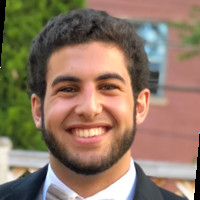
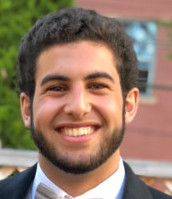
added self-photo in bio

diff --git a/index.html b/index.html
@@ -20,9 +20,8 @@
       <h1>Hi! I'm Zaddeen Benaissa, welcome!</h1>
     </div>
   </div>
-  <div class = "welcome_text">
-    <p>Here are a few of the projects I've worked on at school and on my own.
-      Feel free to click the titles to visit the projects on GitHub and learn more! </p>
+  <div class = "project_intro">
+    <h2>---  Check out the projects I've worked on  ---</h2>
   </div>
   <div class="projects" id="projects">
     <div class="project_and_image">
@@ -54,19 +53,24 @@
     </div>
   </div>
   <div id="about">
-    <h1>Personal Info</h1>
-      <p> I've always loved problem solving, and I found
-        that programming was the perfect way to blend my creativity with something
-        that challenged me. I've delved into several areas of CS through my classwork at Northwestern,
-        including Front-End Design, Machine Learning, and Game Design. Outside of class
-        I've enjoyed experimenting with APIs, especially those that have data
-        about some of my hobbies (including playing cards, the NBA, and the
-        sci-fi TV show Rick and Morty).</p>
-    <h2> Programming Languages </h2>
+    <h2>---  Here's some background on me  ---</h2>
+    <div class="bio">
+      <div class="personal_info">
+          <p> I've always loved problem solving, and I found
+            that programming was the perfect way to blend my creativity with something
+            that challenged me. I've delved into several areas of CS through my classwork at Northwestern,
+            including Front-End Design, Machine Learning, and Game Design. Outside of class
+            I've enjoyed experimenting with APIs, especially those that have data
+            about some of my hobbies (including playing cards, the NBA, and the
+            sci-fi TV show Rick and Morty).</p>
+      </div>
+      <img class = "bio_image" id="self_photo" src="assets/self-photo.jpeg"></img>
+    </div>
+    <h2>These are the languages I'm familiar with</h2>
       <p>Python, HTML, CSS, Javascript, C, C++, C#, MATLAB, AMPL</p>
   </div>
   <div id="contact">
-    <h1>Contact Info</h1>
+    <h1>---  I'd love to get in touch with you  ---</h1>
       <p> Thanks for stopping by! If you have any questions or just want to chat,
         I'm very responsive to an email at zaddeen@u.northwestern.edu. Also, feel free
         to check out my LinkedIn and GitHub to learn more about my experience, all using the links below!

diff --git a/styles.css b/styles.css
@@ -24,17 +24,15 @@ nav {
 }
 
 .nav-item {
-  float: left;
   margin-right: 50px;
   margin-left: 50px;
   margin-bottom: 10px;
-  border-right: 1px solid white;
 }
 
 .nav-item a {
   display: block;
   color: dimgray;
-  padding: 14px 16px;
+  padding: 16px 16px;
   text-decoration: none;
 }
 
@@ -69,7 +67,7 @@ body {
   font-size: 17px;
 }
 
-.welcome_text {
+.project_intro {
   margin-top: 3%;
   margin-bottom: 20px;
   margin-left: 25%;
@@ -108,10 +106,21 @@ body {
 
 /* About Me, Contact Info */
 #about, #contact {
-  margin-bottom: 20px;
+  margin-bottom: 40px;
   margin-left: 25%;
   margin-right: 25%;
   text-align: center;
+}
+
+.bio {
+  display: flex;
+  flex-direction: row;
+}
+
+.personal_info {
+  display: flex;
+  flex-direction: column;
+  margin-right: 40px;
 }
 
 footer {
